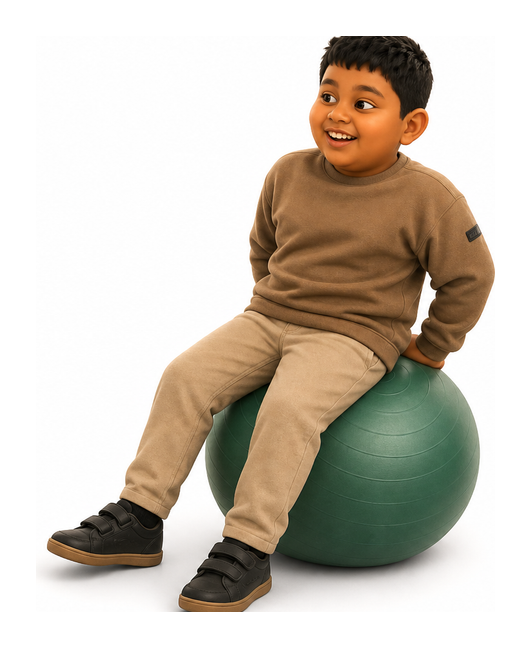
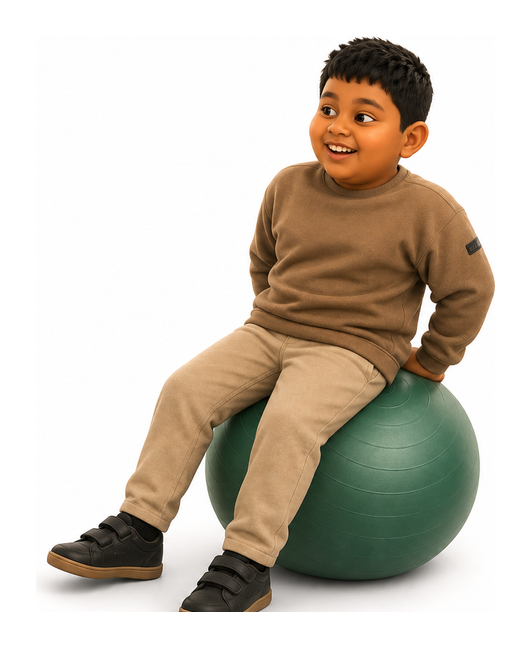
Fix tailored scene PNG display in Now/Next/Focus cards.
Use locked aspect-ratio illustration slots with object-cover for pre-framed scene assets, and re-export Ayaan scenes with north-anchored cover-padded fit.

Changed region(s): [[0.0904, 0.0309, 0.9341, 0.9568]]

diff --git a/src/components/experimental/GeneratedPixtoCard.tsx b/src/components/experimental/GeneratedPixtoCard.tsx
@@ -6,6 +6,9 @@ import { resolveDigitalPixtoStrings } from "@/lib/i18n/pixto-digital-locale";
 import { effectiveDigitalUiLang } from "@/lib/preferences/card-language-preference";
 import { useCardUiLanguage } from "@/lib/preferences/use-card-ui-language";
 import { cn } from "@/lib/utils/cn";
+import {
+  isPixtoLearnIllustrationOnlyUrl,
+} from "@/lib/utils/visual-card-url";
 import { isTailoredSchedulesPackMarkUrl, tailoredSchedulesPackMarkTintMaskUrl } from "@/lib/cards/tailored-schedules-shared";
 import {
   GENERATED_PIXTO_CARD_CORNER_RADIUS_CLASS,
@@ -255,6 +258,9 @@ export function FocusRoutineIllustrationImage({
   const widthTrim = leftPx + rightPx;
   const unoptimized =
     src.startsWith("/") || src.includes("/cards/") || /\.png$/i.test(src);
+  const objectFitClass = isPixtoLearnIllustrationOnlyUrl(src)
+    ? "object-cover object-center"
+    : objectClass;
   return (
     <div className="relative flex h-full w-full items-center justify-center overflow-hidden">
       <div
@@ -275,7 +281,7 @@ export function FocusRoutineIllustrationImage({
           alt=""
           fill
           sizes={sizes}
-          className={cn(objectClass, "select-none")}
+          className={cn(objectFitClass, "select-none")}
           unoptimized={unoptimized}
           draggable={false}
         />
@@ -1286,10 +1292,25 @@ export function GeneratedPixtoCard({
     showIllustrationFrameGuide ||
     (SHOW_GENERATED_PIXTO_DEBUG_GUIDES && focusPresentation);
   /**
-   * Illustration slot = 531×648 (schedule) or 531×663 (focus) aspect box.
-   * Pre-framed 531×648 library assets — contain keeps the full illustration visible.
+   * Pre-framed 531×648 scene PNGs fill the slot; other assets stay contained.
    */
-  const illustrationObjectClass = "object-contain object-center";
+  const illustrationOnlyAsset = isPixtoLearnIllustrationOnlyUrl(
+    resolvedIllustrationSrc,
+  );
+  const illustrationObjectClass = illustrationOnlyAsset
+    ? "object-cover object-center"
+    : "object-contain object-center";
+  const lockedDigitalIllustrationSlot =
+    schedulePresentation || focusPresentation;
+  const illustrationTopMarginPct = focusPresentation
+    ? (FOCUS_FR_TOP_SPACER / (FOCUS_FR_TOP_SPACER + FOCUS_FR_ILLUSTRATION)) *
+      100
+    : schedulePresentation
+      ? (WOW_FR_TOP_SPACER / (WOW_FR_TOP_SPACER + WOW_FR_ILLUSTRATION)) * 100
+      : (FR_TOP_SPACER / (FR_TOP_SPACER + FR_ILLUSTRATION)) * 100;
+  const illustrationSlotAspect = focusPresentation
+    ? FOCUS_ILLUSTRATION_FRAME_ASPECT
+    : ILLUSTRATION_FRAME_ASPECT;
 
   /** Schedule NOW/NEXT (not Focus, not dense tile) — larger type, but same base geometry. */
   const scheduleLargeType = !focusPresentation && !schedulePresentation && !isDense;
@@ -1398,49 +1419,78 @@ export function GeneratedPixtoCard({
             illustrationWidthPct={illustrationWidthPct}
           />
         ) : null}
-        <div
-          className="grid h-full min-h-0 w-full"
-          style={{ gridTemplateRows: innerTopGridRows }}
-        >
-          <div aria-hidden />
-          <div className="relative flex min-h-0 items-center justify-center">
-            <div
-              className={cn(
-                "relative h-full min-h-0 w-full",
-                showFrameGuide &&
-                  "bg-[rgba(0,180,120,0.08)] ring-2 ring-inset ring-[rgba(0,180,120,0.9)]",
-              )}
-              style={{ maxWidth: illustrationWidthPct }}
-            >
-              {showFrameGuide ? (
-                <span className="pointer-events-none absolute left-1 top-1 z-20 rounded bg-[rgba(0,180,120,0.92)] px-1.5 py-0.5 text-[9px] font-semibold uppercase tracking-[0.06em] text-white">
-                  {illustrationFrameRef.w}×{illustrationFrameRef.h}
-                </span>
-              ) : null}
-              <Image
-                src={resolvedIllustrationSrc}
-                alt=""
-                fill
-                sizes="(max-width: 640px) 72vw, 240px"
-                className={cn(illustrationObjectClass, "select-none")}
-                style={
-                  focusPresentation && resolvedFocusIllustrationScale !== 1
-                    ? {
-                        transform: `scale(${resolvedFocusIllustrationScale})`,
-                        transformOrigin: "center center",
-                      }
-                    : undefined
-                }
-                unoptimized={
-                  illustrationUrl.startsWith("/") ||
-                  illustrationUrl.includes("/cards/")
-                }
-                draggable={false}
-              />
-              {!schedulePresentation ? <IllustrationSlotDiagnosticBorder /> : null}
+        {lockedDigitalIllustrationSlot ? (
+          <div
+            className="absolute left-1/2 -translate-x-1/2 overflow-hidden"
+            style={{
+              top: `${illustrationTopMarginPct}%`,
+              width: illustrationWidthPct,
+              aspectRatio: illustrationSlotAspect,
+            }}
+          >
+            {showFrameGuide ? (
+              <span className="pointer-events-none absolute left-1 top-1 z-20 rounded bg-[rgba(0,180,120,0.92)] px-1.5 py-0.5 text-[9px] font-semibold uppercase tracking-[0.06em] text-white">
+                {illustrationFrameRef.w}×{illustrationFrameRef.h}
+              </span>
+            ) : null}
+            <Image
+              src={resolvedIllustrationSrc}
+              alt=""
+              fill
+              sizes="(max-width: 640px) 72vw, 240px"
+              className={cn(illustrationObjectClass, "select-none")}
+              style={
+                focusPresentation && resolvedFocusIllustrationScale !== 1
+                  ? {
+                      transform: `scale(${resolvedFocusIllustrationScale})`,
+                      transformOrigin: "center center",
+                    }
+                  : undefined
+              }
+              unoptimized={
+                illustrationUrl.startsWith("/") ||
+                illustrationUrl.includes("/cards/")
+              }
+              draggable={false}
+            />
+          </div>
+        ) : (
+          <div
+            className="grid h-full min-h-0 w-full"
+            style={{ gridTemplateRows: innerTopGridRows }}
+          >
+            <div aria-hidden />
+            <div className="relative flex min-h-0 items-center justify-center">
+              <div
+                className={cn(
+                  "relative h-full min-h-0 w-full",
+                  showFrameGuide &&
+                    "bg-[rgba(0,180,120,0.08)] ring-2 ring-inset ring-[rgba(0,180,120,0.9)]",
+                )}
+                style={{ maxWidth: illustrationWidthPct }}
+              >
+                {showFrameGuide ? (
+                  <span className="pointer-events-none absolute left-1 top-1 z-20 rounded bg-[rgba(0,180,120,0.92)] px-1.5 py-0.5 text-[9px] font-semibold uppercase tracking-[0.06em] text-white">
+                    {illustrationFrameRef.w}×{illustrationFrameRef.h}
+                  </span>
+                ) : null}
+                <Image
+                  src={resolvedIllustrationSrc}
+                  alt=""
+                  fill
+                  sizes="(max-width: 640px) 72vw, 240px"
+                  className={cn(illustrationObjectClass, "select-none")}
+                  unoptimized={
+                    illustrationUrl.startsWith("/") ||
+                    illustrationUrl.includes("/cards/")
+                  }
+                  draggable={false}
+                />
+                <IllustrationSlotDiagnosticBorder />
+              </div>
             </div>
           </div>
-        </div>
+        )}
       </div>
 
       <TitleBand
